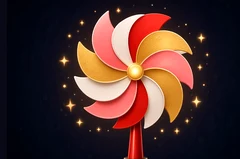
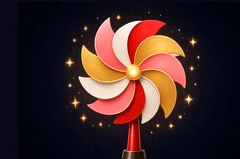
v22.2b: lightning paylines, fan->pinwheel, symbol recentring, multiplier never x0, big-win stamp fix

diff --git a/index.html b/index.html
@@ -2,12 +2,12 @@
 <meta name="viewport" content="width=device-width,initial-scale=1,minimum-scale=1,maximum-scale=1,user-scalable=no,viewport-fit=cover">
 <title>龍運金殿 DRAGON FORTUNE PALACE｜僅供娛樂</title>
 <meta property="og:title" content="龍運金殿｜僅供娛樂・虛擬籌碼"><meta property="og:description" content="龍運金殿：虛擬籌碼娛樂城。僅供娛樂・虛擬籌碼・無真實金錢。"><meta property="og:image" content="assets/logo21.webp"><meta name="application-name" content="龍運金殿"><meta name="description" content="虛擬籌碼的日系柏青嫂風格娛樂城。僅供娛樂・虛擬籌碼・無真實金錢。">
-<link rel="preload" href="assets/lobby/bg.webp?v=222" as="image">
+<link rel="preload" href="assets/lobby/bg.webp?v=223" as="image">
 <style>
-@font-face{font-family:"KleeSub";src:url(assets/fonts/klee-sub.woff2?v=222) format("woff2");font-weight:600;font-display:swap}
+@font-face{font-family:"KleeSub";src:url(assets/fonts/klee-sub.woff2?v=223) format("woff2");font-weight:600;font-display:swap}
 *{box-sizing:border-box}html,body{margin:0;height:100%}
 body{background:#07020a;color:#fbe9f3;font-family:"Noto Sans TC","Noto Sans CJK TC",sans-serif;overflow-x:hidden;-webkit-tap-highlight-color:transparent}
-body::before{content:"";position:fixed;inset:0;z-index:-2;background:url(assets/lobby/bg.webp?v=222) center 30%/cover no-repeat}
+body::before{content:"";position:fixed;inset:0;z-index:-2;background:url(assets/lobby/bg.webp?v=223) center 30%/cover no-repeat}
 body::after{content:"";position:fixed;inset:0;z-index:-1;background:linear-gradient(180deg,rgba(7,2,10,.55),rgba(7,2,10,.25) 30%,rgba(7,2,10,.7) 70%,rgba(7,2,10,.95))}
 @media (min-width:800px){body::before{background-size:auto 140%;background-position:center 30%;box-shadow:inset 0 0 0 100vmax rgba(0,0,0,0)}body{background:radial-gradient(ellipse at 50% 20%,#2a0a26,#07020a 70%)}}
 button{font:inherit;color:inherit;cursor:pointer;touch-action:manipulation}
@@ -105,11 +105,11 @@ html,body{background-color:#1a0618}
 @keyframes mq2{from{transform:translateX(0)}to{transform:translateX(-50%)}}
 @media (max-width:440px){.top{gap:4px}.pill{height:34px;padding:0 9px}.bal b{font-size:16px}.coin{width:17px;height:17px}.ib{width:31px!important;height:31px!important;font-size:14px!important;flex:none}.top .sp{flex:1 1 0;min-width:0}}
 @media (max-width:370px){.ib{width:29px!important;height:29px!important;font-size:13px!important}.lv{max-width:30vw;padding:0 8px}.top{gap:3px}}
-</style><link rel="stylesheet" href="gallery.css?v=222"><style id="tcd184">@font-face{font-family:"TCDisp";src:url(assets/fonts/tcdisp.woff2?v=222) format("woff2");font-weight:900;font-display:swap}
+</style><link rel="stylesheet" href="gallery.css?v=223"><style id="tcd184">@font-face{font-family:"TCDisp";src:url(assets/fonts/tcdisp.woff2?v=223) format("woff2");font-weight:900;font-display:swap}
 .neon2{font-family:"TCDisp","Noto Serif TC",serif!important;font-weight:900!important;font-style:italic!important;letter-spacing:.12em!important}
 .card .t b{font:900 italic 19px/1.2 "TCDisp","Noto Serif TC",serif!important;letter-spacing:.02em;background:linear-gradient(#fff8d8,#ffd56a 55%,#d08a1a);-webkit-background-clip:text;background-clip:text;color:transparent;filter:drop-shadow(1px 2px 0 #3a0418)}
 </style></head><body>
-<div id="load"><img class="l21logo" src="assets/logo21.webp?v=222" alt="龍運金殿" width="900" height="420"><div class="lb"><i id="lbi"></i></div><button id="enter">點擊進入 ♡ 點擊開始</button><small>僅供娛樂・虛擬籌碼・無真實金錢</small></div>
+<div id="load"><img class="l21logo" src="assets/logo21.webp?v=223" alt="龍運金殿" width="900" height="420"><div class="lb"><i id="lbi"></i></div><button id="enter">點擊進入 ♡ 點擊開始</button><small>僅供娛樂・虛擬籌碼・無真實金錢</small></div>
 <div class="wrap">
 <div class="top">
 <div class="pill bal" aria-label="虛擬籌碼餘額"><span class="coin"></span><b id="bal">0</b></div>
@@ -121,7 +121,7 @@ html,body{background-color:#1a0618}
 <button class="ib" id="bLb" aria-label="排行榜">🏆</button>
 <button class="ib" id="bBgm" aria-label="背景音樂" aria-pressed="true">🎵</button>
 </div>
-<header class="sign"><img class="l21logo l21logoT" src="assets/logo21.webp?v=222" alt="龍運金殿" width="900" height="420"></header>
+<header class="sign"><img class="l21logo l21logoT" src="assets/logo21.webp?v=223" alt="龍運金殿" width="900" height="420"></header>
 <div class="mq" aria-hidden="true"><div id="mq"></div></div><div class="czno">僅供娛樂・虛擬籌碼・無真實金錢</div>
 <section class="jp" aria-label="彩金池">
 <div class="jpc g"><small>GRAND JACKPOT</small><b id="jp2">0</b></div>
@@ -137,14 +137,14 @@ html,body{background-color:#1a0618}
 <dialog id="dFree"><h3>免費籌碼</h3><div class="row"><div class="x"><b id="fAmt">每 3 小時可領一次</b><small id="fTxt"></small></div><button class="btn hot" id="fClaim">領取</button></div><p class="note">VIP 等級越高，每次可領越多・虛擬籌碼</p><button class="btn close" data-close>關閉</button></dialog>
 <dialog id="dMiss"><h3>今日任務</h3><div id="miss"></div><h3 style="margin-top:14px">成就</h3><div id="ach"></div><button class="btn close" data-close>關閉</button></dialog>
 <dialog id="dLb"><h3>排行榜</h3><span class="warn">⚠ 示範資料：除「你」以外皆為虛構玩家，非真實排名</span><table class="lbt" id="lbt"></table><p class="note">依累積贏得虛擬籌碼排序・僅供娛樂</p><button class="btn close" data-close>關閉</button></dialog>
-<script src="casino.js?v=222"></script>
+<script src="casino.js?v=223"></script>
 <script>
 (()=>{const $=id=>document.getElementById(id),LS=localStorage,fmt=n=>Math.floor(n).toLocaleString('en-US');
 const GAMES=[
-{id:'matsuri',href:'matsuri.html',name:'夏祭花火',img:'assets/matsuri/card.webp?v=222',tags:['RTP 94.0%','低波動','免費遊戲 ×2倍'],rib:'和風祭典'},
-{id:'samurai',href:'samurai.html',name:'天下布武',img:'assets/samurai/card.webp?v=222',tags:['RTP 93.9%','高波動','免費遊戲 ×3倍'],rib:'NEW'},
-{id:'neko',href:'neko.html',name:'招財大作戰',img:'assets/neko/card.webp?v=222',tags:['RTP 94.0%','低波動','免費遊戲 ×2倍'],rib:'NEW'},
-{id:'sakura',href:'sakura.html',name:'櫻花斬',img:'assets/sakura/card.webp?v=222',tags:['RTP 94.1%','中波動','免費遊戲 ×3倍'],rib:'NEW'}];
+{id:'matsuri',href:'matsuri.html',name:'夏祭花火',img:'assets/matsuri/card.webp?v=223',tags:['RTP 94.0%','低波動','免費遊戲 ×2倍'],rib:'和風祭典'},
+{id:'samurai',href:'samurai.html',name:'天下布武',img:'assets/samurai/card.webp?v=223',tags:['RTP 93.9%','高波動','免費遊戲 ×3倍'],rib:'NEW'},
+{id:'neko',href:'neko.html',name:'招財大作戰',img:'assets/neko/card.webp?v=223',tags:['RTP 94.0%','低波動','免費遊戲 ×2倍'],rib:'NEW'},
+{id:'sakura',href:'sakura.html',name:'櫻花斬',img:'assets/sakura/card.webp?v=223',tags:['RTP 94.1%','中波動','免費遊戲 ×3倍'],rib:'NEW'}];
 $('wall').innerHTML=GAMES.map(g=>`<a class="card" href="${g.href}" data-id="${g.id}"><span class="rib">${g.rib}</span><img src="${g.img}" alt="${g.name}" loading="lazy" decoding="async" width="720" height="405"><div class="meta"><div class="t"><b>${g.name}</b><small>${g.tags.map(t=>`<span class="tag">${t}</span>`).join('')}</small></div><span class="play">PLAY</span></div></a>`).join('')+
 `<div class="card lock" aria-hidden="true"><div class="ph">COMING SOON</div><div class="meta"><div class="t"><b>新機台 準備中</b><small><span class="tag">敬請期待</span></small></div></div></div>`;
 // ---- UI refresh ----
@@ -194,12 +194,12 @@ function note(f,t,d,type,g,dest){const o=ac.createOscillator(),e=ac.createGain()
 const CH=[[57,60,64,67],[53,57,60,64],[55,59,62,65],[52,55,59,62]],mf=m=>440*Math.pow(2,(m-69)/12);let bar=0,nextT=0;
 function sched(){if(!ac||!bgmOn)return;while(nextT<ac.currentTime+1.2){const c=CH[bar%4],t=nextT;c.forEach(m=>note(mf(m),t,3.6,'sine',.035));note(mf(c[0]-12),t,3.4,'triangle',.06);
 [0,.5,1,1.5,2,2.5,3,3.5].forEach((k,i)=>{if(i%2||Math.random()<.5)note(mf(c[(i+bar)%4]+12),t+k,.45,'triangle',.022)});nextT+=4;bar++}}
-let lbB=null,lbS=null,lbL=0;function lbLoad(){if(lbL||!ac)return;lbL=1;fetch('assets/audio/bgm_lobby.mp3?v=222').then(r=>r.arrayBuffer()).then(a=>new Promise((o,n)=>{const p=ac.decodeAudioData(a,o,n);p&&p.then&&p.then(o,n)})).then(b=>{lbB=b;if(bgmOn)bgmStart()}).catch(()=>{})}
+let lbB=null,lbS=null,lbL=0;function lbLoad(){if(lbL||!ac)return;lbL=1;fetch('assets/audio/bgm_lobby.mp3?v=223').then(r=>r.arrayBuffer()).then(a=>new Promise((o,n)=>{const p=ac.decodeAudioData(a,o,n);p&&p.then&&p.then(o,n)})).then(b=>{lbB=b;if(bgmOn)bgmStart()}).catch(()=>{})}
 function bgmStart(){aInit();if(!ac)return;lbLoad();if(lbB){ac.resume&&ac.resume();clearInterval(bgmT);if(bgmOn){if(!lbS){lbS=ac.createBufferSource();lbS.buffer=lbB;lbS.loop=true;lbS.connect(mg);lbS.start()}mg.gain.cancelScheduledValues(ac.currentTime);mg.gain.setValueAtTime(mg.gain.value,ac.currentTime);mg.gain.linearRampToValueAtTime(.55,ac.currentTime+1.5)}return}
 bgmStart0()}
 function bgmStart0(){aInit();if(!ac)return;ac.resume&&ac.resume();if(bgmOn){mg.gain.cancelScheduledValues(ac.currentTime);mg.gain.linearRampToValueAtTime(.9,ac.currentTime+1.5);nextT=Math.max(nextT,ac.currentTime+.05);clearInterval(bgmT);bgmT=setInterval(sched,400);sched()}}
 function bgmFade(){if(ac&&mg)mg.gain.linearRampToValueAtTime(0,ac.currentTime+.25)}
-const LSX={};function lsxL(n){if(LSX[n]!==undefined||!ac)return;LSX[n]=0;fetch('assets/audio/sfx_'+n+'.mp3?v=222').then(r=>r.arrayBuffer()).then(a=>new Promise((o,x)=>{const p=ac.decodeAudioData(a,o,x);p&&p.then&&p.then(o,x)})).then(b=>LSX[n]=b).catch(()=>{})}
+const LSX={};function lsxL(n){if(LSX[n]!==undefined||!ac)return;LSX[n]=0;fetch('assets/audio/sfx_'+n+'.mp3?v=223').then(r=>r.arrayBuffer()).then(a=>new Promise((o,x)=>{const p=ac.decodeAudioData(a,o,x);p&&p.then&&p.then(o,x)})).then(b=>LSX[n]=b).catch(()=>{})}
 function sfx(k){if(!ac)return;['click','chime','coin','enter'].forEach(lsxL);const nm=k===9?'enter':k>=2?'chime':'click';if(LSX[nm]){const s=ac.createBufferSource(),g=ac.createGain();g.gain.value=.8;s.buffer=LSX[nm];s.connect(g).connect(ac.destination);s.start(0,.05);return}const t=ac.currentTime;const g=ac.createGain();g.gain.value=1;g.connect(ac.destination);
 if(k===1)note(1320,t,.08,'square',.03,g);else if(k===2){[0,.07,.14].forEach((d,i)=>note([1047,1319,1568][i],t+d,.25,'triangle',.06,g))}else if(k===3){note(523,t,.15,'triangle',.08,g);note(784,t+.08,.3,'triangle',.08,g)}}
 $('bBgm').onclick=()=>{bgmOn=!bgmOn;LS.setItem('cz_bgm',bgmOn?'1':'0');$('bBgm').setAttribute('aria-pressed',bgmOn);$('bBgm').style.opacity=bgmOn?1:.5;if(bgmOn)bgmStart();else bgmFade()};$('bBgm').style.opacity=bgmOn?1:.5;
@@ -211,4 +211,4 @@ const go=()=>{$('load').classList.add('out');bgmStart();CZ.vib(10);setTimeout(()
 if(sessionStorage.getItem('cz_in')){$('load').remove();addEventListener('pointerdown',bgmStart,{once:true})}else $('enter').addEventListener('click',()=>sessionStorage.setItem('cz_in','1'));
 refresh();
 })();
-</script><script src="gallery.js?v=222"></script><script>document.getElementById("bGal").onclick=()=>CZGAL.open();document.getElementById("galN").textContent=CZGAL.count()+"/"+CZGAL.total</script><link rel="stylesheet" href="life21.css?v=222"><link rel="stylesheet" href="lobby21.css?v=222"><script src="lobby21.js?v=222"></script></body></html>
+</script><script src="gallery.js?v=223"></script><script>document.getElementById("bGal").onclick=()=>CZGAL.open();document.getElementById("galN").textContent=CZGAL.count()+"/"+CZGAL.total</script><link rel="stylesheet" href="life21.css?v=223"><link rel="stylesheet" href="lobby21.css?v=223"><script src="lobby21.js?v=223"></script></body></html>

diff --git a/casino.js b/casino.js
@@ -48,7 +48,7 @@ function waitIdle(f){const k=()=>{if(idle())f();else setTimeout(k,300)};setTimeo
 const SEG=[0,1,0,0,1,0,0,2,0,0,1,0,0,1,0,0,1,0,0,0];// 14 MINI, 5 MAJOR, 1 GRAND (matches 70/25/5)
 function wheelEl(){let w=document.getElementById('czWheel');if(w)return w;w=document.createElement('div');w.id='czWheel';w.setAttribute('role','dialog');w.setAttribute('aria-label','彩金轉盤');
  const cols=['#3a0a2c','#8a1a5c','#d9a441'];const g=SEG.map((s,i)=>`${cols[s]} ${i*18}deg ${(i+1)*18}deg`).join(',');
- w.innerHTML=`<img class="czframe" src="assets/lobby/frame_s.webp?v=219" alt=""><div class="czwbox"><div class="czwt">JACKPOT CHANCE!!</div><div class="czwsub">彩金轉盤</div><div class="czwheel"><div class="czwd" style="background:conic-gradient(${g})">${SEG.map((s,i)=>`<span style="transform:rotate(${i*18+9}deg)"><b class="s${s}">${JP.name[s]}</b></span>`).join('')}</div><div class="czwhub">JP</div><div class="czwptr"></div></div><div class="czwres" aria-live="assertive"></div><button class="czwgo">旋轉轉盤</button></div>`;
+ w.innerHTML=`<img class="czframe" src="assets/lobby/frame_s.webp?v=223" alt=""><div class="czwbox"><div class="czwt">JACKPOT CHANCE!!</div><div class="czwsub">彩金轉盤</div><div class="czwheel"><div class="czwd" style="background:conic-gradient(${g})">${SEG.map((s,i)=>`<span style="transform:rotate(${i*18+9}deg)"><b class="s${s}">${JP.name[s]}</b></span>`).join('')}</div><div class="czwhub">JP</div><div class="czwptr"></div></div><div class="czwres" aria-live="assertive"></div><button class="czwgo">旋轉轉盤</button></div>`;
  document.body.appendChild(w);return w}
 function wheel(total){window.__hold=true;const w=wheelEl(),d=w.querySelector('.czwd'),btn=w.querySelector('.czwgo'),res=w.querySelector('.czwres');
  res.textContent='';d.style.transition='none';d.style.transform='rotate(0deg)';w.classList.add('on');btn.disabled=false;btn.textContent='旋轉轉盤';vib([30,40,30]);
@@ -66,7 +66,7 @@ window.CZ.wheel=wheel;
 function machineUI(){const $=id=>document.getElementById(id),mach=$('machine');
  // 大獎 cutscene (user art) before big wins / bonus / jackpot
  const at=document.createElement('div');at.id='czAtari';at.setAttribute('role','dialog');at.setAttribute('aria-label','大獎');
- at.innerHTML='<div class="ab"></div><div class="ai"></div><div class="asw"></div><div class="apt"></div><img class="afr" src="assets/lobby/frame_s.webp?v=219" alt=""><div class="atx"><b></b><i></i></div><div class="askip">點擊略過</div>';
+ at.innerHTML='<div class="ab"></div><div class="ai"></div><div class="asw"></div><div class="apt"></div><img class="afr" src="assets/lobby/frame_s.webp?v=223" alt=""><div class="atx"><b></b><i></i></div><div class="askip">點擊略過</div>';
  document.body.appendChild(at);const pt=at.querySelector('.apt');for(let i=0;i<16;i++){const e=document.createElement('u');e.style.left=(Math.random()*100)+'%';e.style.animationDelay=(-Math.random()*2.4)+'s';e.style.animationDuration=(2+Math.random()*1.6)+'s';e.style.setProperty('--dx',(Math.random()*120-60)+'px');pt.appendChild(e)}
  function sting(){try{if(typeof ac==='undefined'||!ac)return;const t=ac.currentTime,g=ac.createGain();g.gain.value=.5;g.connect(ac.destination);
   [[523,0],[659,.08],[784,.16],[1047,.24],[1568,.36]].forEach(([f,d])=>{const o=ac.createOscillator(),e=ac.createGain();o.type='triangle';o.frequency.value=f;e.gain.setValueAtTime(0,t+d);e.gain.linearRampToValueAtTime(.18,t+d+.02);e.gain.exponentialRampToValueAtTime(.001,t+d+.9);o.connect(e).connect(g);o.start(t+d);o.stop(t+d+1)});
@@ -77,13 +77,13 @@ function machineUI(){const $=id=>document.getElementById(id),mach=$('machine');
  function atEnd(){if(!at.classList.contains('on'))return;clearTimeout(atT);at.className='';window.__hold=false;const f=atCb;atCb=null;f&&f()}
  at.addEventListener('pointerdown',atEnd);addEventListener('keydown',e=>{if(at.classList.contains('on')&&(e.key===' '||e.key==='Enter'||e.key==='Escape')){e.preventDefault();e.stopPropagation();atEnd()}},true);
  CZ.atari=atari;
- (window.requestIdleCallback||setTimeout)(()=>{const w=innerWidth>900;['assets/lobby/'+(w?'atari':'atari_s')+'.webp?v=219','assets/lobby/atari_bl.webp?v=219','assets/lobby/frame_s.webp?v=219',`assets/${CZM.id}/bigbonus.webp?v=219`,`assets/${CZM.id}/hero.webp?v=219`,`assets/${CZM.id}/cutin.webp?v=219`].forEach(u=>{const i=new Image();i.src=u;i.decode&&i.decode().catch(()=>{})})},{timeout:2500});
+ (window.requestIdleCallback||setTimeout)(()=>{const w=innerWidth>900;['assets/lobby/'+(w?'atari':'atari_s')+'.webp?v=223','assets/lobby/atari_bl.webp?v=223','assets/lobby/frame_s.webp?v=223',`assets/${CZM.id}/bigbonus.webp?v=223`,`assets/${CZM.id}/hero.webp?v=223`,`assets/${CZM.id}/cutin.webp?v=223`].forEach(u=>{const i=new Image();i.src=u;i.decode&&i.decode().catch(()=>{})})},{timeout:2500});
  const _bw=window.bigWin;window.bigWin=function(won,total,o={}){if(o.noStamp)return _bw(won,total,o);const x=won/total;
   atari(x>=50?'傳說大獎':x>=25?'超級大獎':'大獎',x>=50?'龍運降臨!!':x>=25?'金殿狂歡!!':'好運降臨!!',()=>_bw(won,total,o))};
  const _fi=window.fsIntro;window.fsIntro=function(re){if(re)return _fi(re);atari('BONUS!!','免費遊戲 開始',()=>_fi(re))};
  const _wh=CZ.wheel;CZ.wheel=function(t){atari('彩金','大獎機會!!',()=>_wh(t))};
  // gold-sakura frame on win tiers
- const bwEl=$('bw');if(bwEl){const f=document.createElement('img');f.className='czframe';f.src='assets/lobby/frame_s.webp?v=219';f.alt='';bwEl.appendChild(f)}
+ const bwEl=$('bw');if(bwEl){const f=document.createElement('img');f.className='czframe';f.src='assets/lobby/frame_s.webp?v=223';f.alt='';bwEl.appendChild(f)}
  const sp=$('spinBtn');sp.addEventListener('pointerdown',()=>vib(12),{passive:true});
  // control bar: move existing controls into one flex bar
  const bar=document.createElement('div');bar.className='czbar';
@@ -136,7 +136,7 @@ if(IN_M)addEventListener('load',czPreSym);
 function czMenuFix(){const m=document.getElementById('menu16');if(m&&m.parentNode!==document.body)document.body.appendChild(m);const b=document.querySelector('.czbar');const set=()=>b&&document.documentElement.style.setProperty('--czbarH',Math.round(b.getBoundingClientRect().height)+'px');set();addEventListener('resize',set);document.getElementById('menuBtn')?.addEventListener('click',set)}
 if(IN_M)addEventListener('load',czMenuFix);
 function czHero(){const mach=document.getElementById('machine'),inn=mach&&mach.querySelector('.inner');if(!inn||document.getElementById('czHero'))return;
- const id=(location.pathname.split('/').pop()||'').replace('.html','');const V='?v=219';document.documentElement.style.setProperty('--czhero',`url(assets/${id}/hero.webp${V})`);
+ const id=(location.pathname.split('/').pop()||'').replace('.html','');const V='?v=223';document.documentElement.style.setProperty('--czhero',`url(assets/${id}/hero.webp${V})`);
  const h=document.createElement('div');h.id='czHero';h.setAttribute('aria-hidden','true');
  h.innerHTML=`<div class="czhi" style="background-image:url(assets/${id}/hero.webp${V})"></div><div class="czhs"></div><i class="czhp"></i><i class="czhp b"></i><img class="czhl" src="assets/${id}/logo.webp${V}" alt=""><div class="czhf"></div>`;
  mach.insertBefore(h,inn);let F=null;const mq=matchMedia('(max-width:620px) and (orientation:portrait)');

diff --git a/feat.js b/feat.js
@@ -2,7 +2,7 @@
 (function(){
 if(typeof CZM==='undefined')return;
 const ID=CZM.id,NF=new Intl.NumberFormat('zh-TW'),RM=matchMedia('(prefers-reduced-motion: reduce)').matches;
-const MP={"love": 0.013999, "matsuri": 0.01386, "caishen": 0.015235, "samurai": 0.015248, "pirate": 0.014087, "neko": 0.013868, "sakura": 0.015022, "queen": 0.014767, "school": 0.013999, "jungle": 0.015235};                         // per-machine multiplier trigger prob (from math/m203.json)
+const MP={"matsuri": 0.004588, "samurai": 0.005093, "neko": 0.004590, "sakura": 0.004311};  // v22.2: multiplier now waits for the next WIN (never wasted, never ×0); trigger prob = old×hit-rate keeps the 1.5% share exact                         // per-machine multiplier trigger prob (from math/m203.json)
 const TW_N=60,TW_U=[.5,.75,1,1.25,1.5],TW_R=.02;               // eruption: 2.0% exact
 const PL=[100,25,8,3,2,3,8,25,100],PL_P=0.015/(1524/256);        // plinko: 1.5% exact
 const WH=[[5],[8],[10],[5],[15],[8],[30,'迷你'],[5],[10],[80,'小獎'],[8],[250,'大獎']],WH_P=0.015/(434/12); // wheel 1.5% exact
@@ -74,17 +74,17 @@ async function wheel(bet){const tot=bet*NL,n=WH.length,L=stage('三重彩金輪'
 wheel.t='三重彩金輪';
 /* ---- 狂熱倍數 ---- */
 function mxUI(){const wb=$('win')&&$('win').parentElement;let e=$('mxBadge');if(!armed){e&&e.remove();return}if(!wb)return;if(!e){e=document.createElement('div');e.id='mxBadge';e.className='rmx';wb.appendChild(e)}e.textContent='×'+armed}
-async function mxShow(){const R=armed;const L=stage('狂熱倍數'),W=L.clientWidth,H=L.clientHeight,cw=W/5,ch=H/3;const seq=[];for(let i=0;i<18;i++)seq.push([2,3,5][i%3]);seq.push(R,2,3);
+let mxR=2;async function mxShow(){const R=Math.max(2,armed||mxR);const L=stage('狂熱倍數'),W=L.clientWidth,H=L.clientHeight,cw=W/5,ch=H/3;const seq=[];for(let i=0;i<18;i++)seq.push([2,3,5][i%3]);seq.push(R,2,3);
  L.insertAdjacentHTML('beforeend',`<div class="rmCol" style="left:${2*cw}px;width:${cw}px"><div class="rmStrip">${seq.map(v=>`<i style="height:${ch}px">×${v}</i>`).join('')}</div></div>`);const st=L.querySelector('.rmStrip');await sleep(350);
  const T=RM?0:2000;st.style.transition=`transform ${T}ms cubic-bezier(.15,.6,.15,1)`;await sleep(40);st.style.transform=`translateY(${-(seq.length-3-1+1-1)*ch+0}px)`;
  for(let i=0;i<10;i++)tone(600+i*60,i*T/10000,.04,'square',.03);await sleep(T+100);const tile=st.children[seq.length-3];tile.classList.add('win');L.querySelector('.rmCol').classList.add('exp');tone(660,0,.15,'square',.05);tone(990,.12,.3,'square',.05);
- {const r=tile.getBoundingClientRect();window.W21&&W21.burst(r.left+r.width/2,r.top+r.height/2,18,240)}await sleep(500);mxUI();return finish(L,0,`下一局獎金 ×${R}`,true)}
+ {const r=tile.getBoundingClientRect();window.W21&&W21.burst(r.left+r.width/2,r.top+r.height/2,18,240)}await sleep(500);mxUI();return finish(L,0,`下次中獎 ×${R} 加倍！`,true)}
 mxShow.t='狂熱倍數';
 /* ---- hook settle results ---- */
 let PR=null;addEventListener('load',()=>{const b=$('board');b&&new MutationObserver(()=>{if(b.getAttribute('aria-busy')==='true')PR=(typeof FS!=='undefined'&&FS)?null:{m:Math.random(),p:Math.random(),w:Math.random()}}).observe(b,{attributes:true,attributeFilter:['aria-busy']})});
 const CZo=window.CZ&&CZ.onSettle;if(CZo)CZ.onSettle=function(o){const r=CZo.apply(this,arguments);const Rr=PR||{m:Math.random(),p:Math.random(),w:Math.random()};PR=null;try{if(!o.free){const tot=o.total,bet=tot/NL;
- if(armed){const R=armed;armed=0;mxUI();if(o.won>0){const ex=o.won*(R-1);bal+=ex;$('win').textContent=o.won*R;try{ui();saveLater&&saveLater()}catch(e){}$('msg').textContent=`狂熱倍數 ×${R}！本局共贏得 ${NF.format(o.won*R)} 籌碼！`;window.AV&&AV.celebrate(0)}}
- else if(Rr.m<3*(MP[ID]||0)){tk.m++;if(tk.m>=3){tk.m=0;armed=pick(MX);queue(mxShow,bet)}emitT('mult')}
+ if(armed&&!o.free&&!(o.won>0)){$('msg')&&($('msg').textContent=`狂熱倍數 ×${armed} 保留中・下次中獎就加倍！`)}else if(armed&&o.won>0){const R=armed;armed=0;mxUI();{const ex=o.won*(R-1);bal+=ex;$('win').textContent=o.won*R;try{ui();saveLater&&saveLater()}catch(e){}$('msg').textContent=`狂熱倍數 ×${R}！本局共贏得 ${NF.format(o.won*R)} 籌碼！`;window.AV&&AV.celebrate(0)}}
+ else if(Rr.m<3*(MP[ID]||0)){tk.m++;if(tk.m>=3){tk.m=0;armed=mxR=pick(MX);queue(mxShow,bet)}emitT('mult')}
  tw.n++;tw.pot+=tot*TW_R*TW_U[Math.random()*TW_U.length|0];if(tw.n>=TW_N)queue(erupt(),bet);localStorage.setItem(KEY,JSON.stringify(tw));twUI();
  if(Rr.p<5*PL_P){tk.p++;const full=tk.p>=5;if(full)tk.p=0;emitT('plinko',full);if(full)queue(plinko,bet)}if(Rr.w<12*WH_P){tk.w++;const full=tk.w>=12;if(full)tk.w=0;emitT('wheel',full);if(full)queue(wheel,bet)}saveT();emitT('tick')}}catch(e){console.error(e)}return r};
 /* ---- buy 寶珠鎖定重轉 ---- */
@@ -95,5 +95,5 @@ function buyUI(){const m=$('menu16'),b0=$('czBuyBtn');if(!m||!b0||$('czBuyHS'))r
  $('czBuyHSNo').onclick=()=>d.close();$('czBuyHSOk').onclick=()=>{d.close();const p=price();if(bal<p||!idle())return;bal-=p;try{ui();saveLater&&saveLater()}catch(e){}CZHS.force(BETS[betIdx])}}
 function boot(){twUI();buyUI()}
 if(document.readyState==='complete')setTimeout(boot,300);else addEventListener('load',()=>setTimeout(boot,300));
-window.CZF={tk:()=>tk,emit:()=>emitT('tick'),force:{plinko:()=>queue(plinko,BETS[betIdx]),wheel:()=>queue(wheel,BETS[betIdx]),erupt:()=>{tw.n=TW_N;tw.pot=Math.max(tw.pot,BETS[betIdx]*NL*1.2);queue(erupt(),BETS[betIdx])},mult:()=>{armed=pick(MX);queue(mxShow,BETS[betIdx])}},pending:()=>!!PR&&!armed&&((PR.p<5*PL_P&&tk.p+1>=5)||(PR.w<12*WH_P&&tk.w+1>=12)||(PR.m<3*(MP[ID]||0)&&tk.m+1>=3)||tw.n+1>=TW_N),tw:()=>tw,MP,PL_P,WH_P};
+window.CZF={tk:()=>tk,emit:()=>emitT('tick'),force:{plinko:()=>queue(plinko,BETS[betIdx]),wheel:()=>queue(wheel,BETS[betIdx]),erupt:()=>{tw.n=TW_N;tw.pot=Math.max(tw.pot,BETS[betIdx]*NL*1.2);queue(erupt(),BETS[betIdx])},mult:()=>{armed=mxR=pick(MX);queue(mxShow,BETS[betIdx])}},pending:()=>!!PR&&!armed&&((PR.p<5*PL_P&&tk.p+1>=5)||(PR.w<12*WH_P&&tk.w+1>=12)||(PR.m<3*(MP[ID]||0)&&tk.m+1>=3)||tw.n+1>=TW_N),tw:()=>tw,MP,PL_P,WH_P};
 })();

diff --git a/bolt22.js b/bolt22.js
@@ -1,0 +1,33 @@
+/* v22.2 lightning paylines: canvas overlay on #board, jagged gold/white bolts, sparks at symbol nodes, crackle (presentation only) */
+(function(){const B=document.getElementById('board'),SV=document.getElementById('lines');if(!B||!SV)return;
+const RM=matchMedia('(prefers-reduced-motion: reduce)').matches,DPR=Math.min(2,devicePixelRatio||1);
+const cv=document.createElement('canvas');cv.id='bolt22';cv.setAttribute('aria-hidden','1');B.appendChild(cv);const x=cv.getContext('2d');
+let W=0,H=0,raf=0,lines=[],t0=0,cyc=0,last=0,jag=[],sparks=[],endT=0;
+function size(){const r=B.getBoundingClientRect();W=r.width;H=r.height;cv.width=Math.round(W*DPR);cv.height=Math.round(H*DPR);x.setTransform(DPR,0,0,DPR,0,0)}
+function pts(pl){const vb=SV.viewBox.baseVal,sr=SV.getBoundingClientRect(),br=B.getBoundingClientRect(),sx=sr.width/vb.width,sy=sr.height/vb.height,o=[];const P=pl.points;for(let i=0;i<P.numberOfItems;i++){const p=P.getItem(i);o.push([sr.left-br.left+p.x*sx,sr.top-br.top+p.y*sy])}return o}
+function zig(P,amp){const o=[P[0]];for(let i=1;i<P.length;i++){const[a,b]=[P[i-1],P[i]],dx=b[0]-a[0],dy=b[1]-a[1],L=Math.hypot(dx,dy),n=Math.max(4,L/14|0),nx=-dy/L,ny=dx/L;for(let k=1;k<n;k++){const f=k/n,j=(Math.random()*2-1)*amp*(1-Math.abs(f-.5)*.8);o.push([a[0]+dx*f+nx*j,a[1]+dy*f+ny*j])}o.push(b)}return o}
+let AC=null;function crack(){try{if(typeof sound!=='undefined'&&!sound)return;const c=(typeof AM!=='undefined'&&AM.c)||(AC=AC||new(window.AudioContext||window.webkitAudioContext)());const dst=(typeof AM!=='undefined'&&AM.m)||c.destination;const n=c.sampleRate*.22|0,bf=c.createBuffer(1,n,c.sampleRate),d=bf.getChannelData(0);for(let i=0;i<n;i++){const e=Math.pow(1-i/n,3);d[i]=(Math.random()*2-1)*e*(Math.random()<.25?1:.35)}const s=c.createBufferSource();s.buffer=bf;const f=c.createBiquadFilter();f.type='highpass';f.frequency.value=1800;const g=c.createGain();g.gain.value=.22;s.connect(f).connect(g).connect(dst);s.start()}catch(e){}}
+function draw(P,prog,al,wide){if(P.length<2)return;let L=0;const seg=[];for(let i=1;i<P.length;i++){const l=Math.hypot(P[i][0]-P[i-1][0],P[i][1]-P[i-1][1]);seg.push(l);L+=l}let lim=L*prog;
+ const path=()=>{x.beginPath();x.moveTo(P[0][0],P[0][1]);let acc=0;for(let i=1;i<P.length;i++){if(acc+seg[i-1]>lim){const f=(lim-acc)/seg[i-1];x.lineTo(P[i-1][0]+(P[i][0]-P[i-1][0])*f,P[i-1][1]+(P[i][1]-P[i-1][1])*f);break}x.lineTo(P[i][0],P[i][1]);acc+=seg[i-1]}};
+ x.lineJoin='round';x.lineCap='round';path();x.strokeStyle=`rgba(255,190,60,${.28*al})`;x.lineWidth=wide?16:12;x.stroke();path();x.strokeStyle=`rgba(255,220,110,${.55*al})`;x.lineWidth=wide?8:6;x.stroke();path();x.strokeStyle=`rgba(255,255,240,${.82*al})`;x.lineWidth=wide?3:2.4;x.stroke()}
+function frame(t){raf=0;if(!lines.length)return;const now=t;if(now>endT||B.getAttribute('aria-busy')==='true'){stop();return}
+ if(now-last<(RM?250:33)){raf=requestAnimationFrame(frame);return}last=now;x.clearRect(0,0,W,H);
+ const el=now-t0,all=el<900,per=1100;let idx=all?-1:Math.floor((el-900)/per)%lines.length;const lt=all?el:(el-900)%per;
+ if(!all&&idx!==cyc){cyc=idx;crack();lines[idx].nodes.forEach(n=>spark(n,6))}
+ x.globalCompositeOperation='lighter';
+ lines.forEach((ln,i)=>{const on=all||i===idx;const prog=on?Math.min(1,(all?el-i*90:lt)/180):1;if(prog<=0)return;if(Math.random()<.5||!ln.z)ln.z=zig(ln.p,on?7:4);const al=on?(.75+Math.random()*.25):.18;draw(ln.z,prog,al,on&&!all);if(on&&Math.random()<.35){draw(zig(ln.p,11),prog,.35,false)}});
+ sparks=sparks.filter(s=>(s.l-=.06)>0);sparks.forEach(s=>{s.x+=s.vx;s.y+=s.vy;s.vy+=.15;x.fillStyle=`rgba(255,240,180,${s.l})`;x.fillRect(s.x-1.2,s.y-1.2,2.4,2.4)});
+ lines.forEach((ln,i)=>{if(!(all||i===idx))return;ln.nodes.forEach(n=>{const r=5+Math.random()*4,g=x.createRadialGradient(n[0],n[1],0,n[0],n[1],r*2.2);g.addColorStop(0,'rgba(255,255,235,.9)');g.addColorStop(.4,'rgba(255,210,90,.45)');g.addColorStop(1,'rgba(255,180,40,0)');x.fillStyle=g;x.beginPath();x.arc(n[0],n[1],r*2.2,0,7);x.fill()})});
+ x.globalCompositeOperation='source-over';raf=requestAnimationFrame(frame)}
+function spark(n,k){if(RM)return;for(let i=0;i<k;i++)sparks.push({x:n[0],y:n[1],vx:(Math.random()*2-1)*2.4,vy:(Math.random()*2-1)*2.4-1,l:1})}
+function stop(){lines=[];sparks=[];if(raf)cancelAnimationFrame(raf);raf=0;x.clearRect(0,0,W,H);B.classList.remove('bolt22')}
+function start(){const pls=[...SV.querySelectorAll('polyline.core')].slice(0,8);if(!pls.length)return;size();
+ lines=pls.map(pl=>{const p=pts(pl),cnt=document.querySelectorAll('#board .cell.hit').length;return{p,nodes:p,z:null}});
+ // nodes only on hit cells
+ const hits=[...B.querySelectorAll('.cell.hit')].map(c=>{const r=c.getBoundingClientRect(),br=B.getBoundingClientRect();return[r.left-br.left+r.width/2,r.top-br.top+r.height/2]});
+ lines.forEach(l=>l.nodes=l.p.filter(p=>hits.some(h=>Math.hypot(h[0]-p[0],h[1]-p[1])<20)));
+ B.classList.add('bolt22');t0=performance.now();last=0;cyc=-1;endT=t0+(lines.length>1?900+lines.length*1100*2:4200);crack();lines.forEach(l=>l.nodes.forEach(n=>spark(n,4)));if(!raf)raf=requestAnimationFrame(frame)}
+new MutationObserver(()=>{if(B.getAttribute('aria-busy')==='true'){stop();return}}).observe(B,{attributes:true,attributeFilter:['aria-busy']});
+new MutationObserver(()=>{if(SV.querySelector('polyline.core'))setTimeout(start,60);else stop()}).observe(SV,{childList:true});
+document.addEventListener('visibilitychange',()=>{if(document.hidden)stop()});addEventListener('resize',()=>{if(lines.length)start()});
+window.BOLT22={start,stop};})();

diff --git a/bolt22.css b/bolt22.css
@@ -1,0 +1,11 @@
+#bolt22{position:absolute;inset:0;width:100%;height:100%;pointer-events:none;z-index:6}
+#board.bolt22 svg.lines .glow,#board.bolt22 svg.lines .core,#board.bolt22 svg.lines .beam{opacity:0!important}
+/* v22.2 big-win stamp: clean centred logo (old landscape art was cropped on phones) */
+#czAtari{background:radial-gradient(ellipse at 50% 42%,#7a1410 0,#3a0608 45%,#0a0204 85%)!important}
+#czAtari .ab{background:radial-gradient(circle at 50% 42%,rgba(255,190,80,.35),transparent 60%)!important}
+#czAtari .ai,#czAtari .ai[style]{background:url(assets/lobby/atari_p.webp?v=223) 50% 40%/min(96vw,96vh*0.6,820px) auto no-repeat!important;-webkit-mask:none!important;mask:none!important}
+#czAtari .afr{display:none!important}
+#czAtari .atx{left:0!important;right:0!important;top:auto!important;bottom:calc(14% + env(safe-area-inset-bottom,0px))!important;text-align:center!important;display:flex;flex-direction:column;align-items:center}
+#czAtari .atx b{font-family:"Noto Serif TC","TCDisp",serif!important;font-weight:900!important;font-style:normal!important;letter-spacing:.08em;color:transparent!important;background:linear-gradient(#fff8d8 10%,#ffd65a 45%,#c8861c 70%,#fff0b0 95%);-webkit-background-clip:text;background-clip:text;-webkit-text-stroke:0!important;filter:drop-shadow(0 3px 0 #5a1a00) drop-shadow(0 0 14px rgba(255,180,60,.8));text-shadow:none!important;font-size:clamp(44px,14vw,96px)!important}
+#czAtari .atx i{font-family:"Noto Serif TC",serif!important;letter-spacing:.12em;margin-top:10px}
+@media (max-aspect-ratio:1/1){#bw .czframe{display:none!important}}

diff --git a/gallery.js b/gallery.js
@@ -7,7 +7,7 @@ requestAnimationFrame(()=>{d.classList.add('on');const i=d.querySelector('.gb i'
 (function(){
 const MS=[['matsuri','夏祭花火'],['samurai','天下布武'],['neko','招財大作戰'],['sakura','櫻花斬']];
 const ART=[['p_idle','待機',s=>s.spins>=1,'玩 1 次'],['p_anticip','蓄勢',s=>s.spins>=30,'玩 30 次'],['p_victory','勝利',s=>(s.win||0)>=1,'贏 1 次'],['p_special','絕技',s=>s.spins>=100,'玩 100 次'],['p_bonus','BONUS',s=>s.fs>=1,'觸發 BONUS'],['p_bigwin','大獎',s=>(s.big||0)>=1,'贏 10 倍以上']];
-const V='?v=222',K='cz_gal';
+const V='?v=223',K='cz_gal';
 const load=()=>{try{return JSON.parse(localStorage.getItem(K)||'{}')}catch(e){return{}}};const save=g=>localStorage.setItem(K,JSON.stringify(g));
 const st=(g,id)=>g[id]||(g[id]={spins:0,fs:0});
 function count(){const g=load();let n=0;MS.forEach(([id])=>ART.forEach(a=>{if(a[2](st(g,id)))n++}));return n}

diff --git a/pose21.js b/pose21.js
@@ -1,5 +1,5 @@
 /* v22.0 character pose crossfade over hero art (presentation only, no RTP effect) */
-(function(){if(!window.CZM)return;const id=CZM.id,V='?v=222',RM=matchMedia('(prefers-reduced-motion: reduce)').matches;
+(function(){if(!window.CZM)return;const id=CZM.id,V='?v=223',RM=matchMedia('(prefers-reduced-motion: reduce)').matches;
 let el=null,t=0,idleT=0,lock=0;
 function host(){const h=document.querySelector('#czHero');if(!h)return null;if(!el){el=document.createElement('div');el.className='czpose';el.setAttribute('aria-hidden','1');const hi=h.querySelector('.czhi');hi?hi.after(el):h.prepend(el)}return el}
 const pre={};function load(p){if(!pre[p]){const i=new Image();i.src='assets/'+id+'/p_'+p+'.webp'+V;pre[p]=i.decode?i.decode().catch(()=>{}):Promise.resolve()}return pre[p]}
